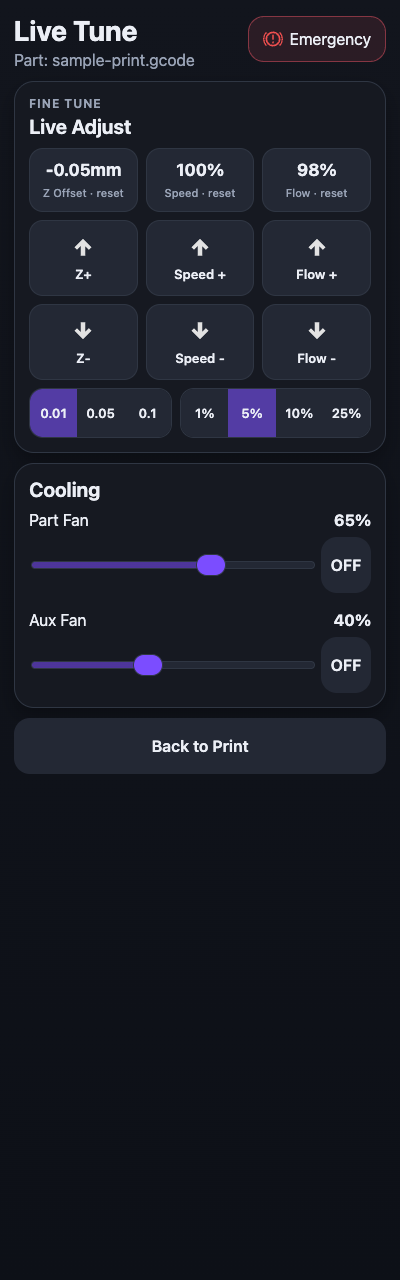
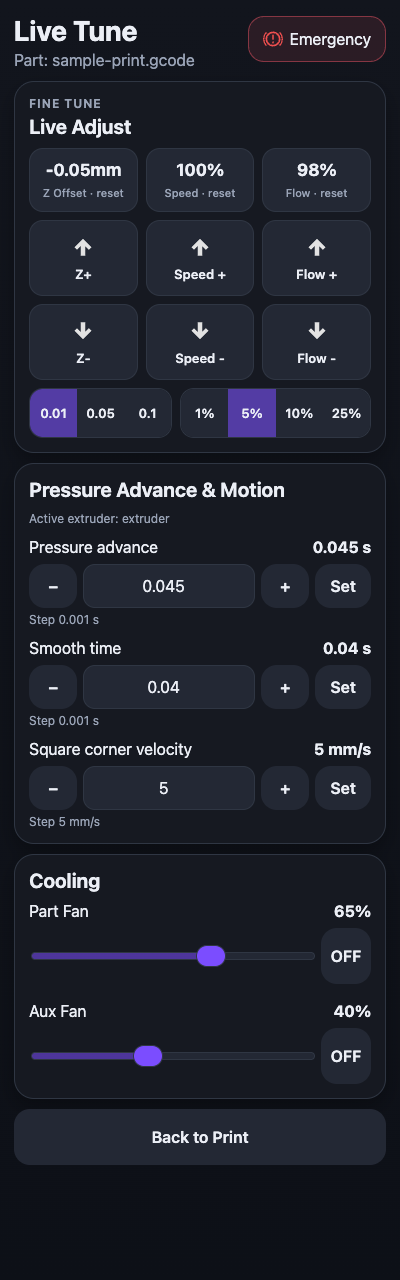
added PA control to live tune

diff --git a/src/components/MotionTuneControls.tsx b/src/components/MotionTuneControls.tsx
@@ -1,0 +1,97 @@
+import { useState } from 'react';
+import { useCommands, usePrinterStore } from '../stores/usePrinterStore';
+
+interface TuneSettingProps {
+  label: string;
+  unit: string;
+  value?: number;
+  increment: number;
+  max?: number;
+  onSet: (value: number) => void;
+}
+
+function TuneSetting({ label, unit, value, increment, max, onSet }: TuneSettingProps) {
+  const [draft, setDraft] = useState<string | null>(null);
+  const parsed = draft === null ? value : Number(draft);
+  const valid = draft !== '' && parsed !== undefined && Number.isFinite(parsed)
+    && parsed >= 0 && (max === undefined || parsed <= max);
+  const adjust = (delta: number) => {
+    if (value === undefined) return;
+    const adjusted = Number((value + delta).toPrecision(12));
+    onSet(Math.min(max ?? Infinity, Math.max(0, adjusted)));
+    setDraft(null);
+  };
+
+  return (
+    <div className="motion-setting">
+      <div className="kv"><span>{label}</span><strong>{value === undefined ? 'Unavailable' : `${value} ${unit}`}</strong></div>
+      <div className="motion-setting-controls">
+        <button type="button" className="btn" aria-label={`Decrease ${label}`} disabled={value === undefined || value <= 0} onClick={() => adjust(-increment)}>−</button>
+        <input
+          className="motion-setting-input"
+          type="number"
+          inputMode="decimal"
+          aria-label={`${label} value`}
+          min={0}
+          max={max}
+          step="any"
+          value={draft ?? value ?? ''}
+          disabled={value === undefined}
+          onChange={(event) => setDraft(event.currentTarget.value)}
+        />
+        <button type="button" className="btn" aria-label={`Increase ${label}`} disabled={value === undefined || (max !== undefined && value >= max)} onClick={() => adjust(increment)}>+</button>
+        <button type="button" className="btn" disabled={value === undefined || !valid} onClick={() => {
+          if (parsed === undefined || !valid) return;
+          onSet(parsed);
+          setDraft(null);
+        }}>Set</button>
+      </div>
+      <div className="motion-setting-hint">
+        {draft !== null && !valid ? (max === undefined ? 'Enter a non-negative number.' : `Enter a value from 0 to ${max}.`) : `Step ${increment} ${unit}`}
+      </div>
+    </div>
+  );
+}
+
+export function MotionTuneControls() {
+  const commands = useCommands();
+  const tuning = usePrinterStore((state) => state.motionTuning);
+  const runAction = usePrinterStore((state) => state.runAction);
+  const extruder = tuning.activeExtruder;
+  const values = extruder ? tuning.extruders[extruder] : undefined;
+
+  return (
+    <section className="card">
+      <div className="card-title">Pressure Advance &amp; Motion</div>
+      <div className="motion-setting-hint">Active extruder: {extruder ?? 'unavailable'}</div>
+      <TuneSetting
+        key={`advance-${extruder}`}
+        label="Pressure advance"
+        unit="s"
+        value={values?.pressureAdvance}
+        increment={0.001}
+        onSet={(value) => {
+          if (extruder) void runAction('Set pressure advance', () => commands.setPressureAdvance(extruder, value));
+        }}
+      />
+      <TuneSetting
+        key={`smooth-${extruder}`}
+        label="Smooth time"
+        unit="s"
+        value={values?.smoothTime}
+        increment={0.001}
+        max={0.2}
+        onSet={(value) => {
+          if (extruder) void runAction('Set smooth time', () => commands.setPressureAdvanceSmoothTime(extruder, value));
+        }}
+      />
+      <TuneSetting
+        label="Square corner velocity"
+        unit="mm/s"
+        value={tuning.squareCornerVelocity}
+        increment={5}
+        onSet={(value) => void runAction('Set square corner velocity', () => commands.setSquareCornerVelocity(value))}
+      />
+    </section>
+  );
+}

diff --git a/src/stores/usePrinterStore.ts b/src/stores/usePrinterStore.ts
@@ -24,7 +24,7 @@ import {
   type BottomBarItemKey,
   type TempPreset,
 } from '../services/userConfig';
-import { computeJobState, deriveTemperatures, normalizeKlipperState, toPercent } from './printerStateUtils';
+import { computeJobState, deriveTemperatures, fillMissingMotionTuning, mergeMotionTuning, normalizeKlipperState, toPercent, type MotionTuning } from './printerStateUtils';
 import { MoonrakerHttpClient } from '../transport/moonrakerHttp';
 import { MoonrakerSocket } from '../transport/moonrakerSocket';
 import { hhmmFromSeconds } from '../utils/format';
@@ -72,6 +72,7 @@ interface PrinterStore {
   speedPercent: number;
   flowPercent: number;
   zOffset: number;
+  motionTuning: MotionTuning;
   excludeObjects: ExcludeObjectsState;
   boot: () => void;
   disconnect: () => void;
@@ -200,6 +201,9 @@ const readHeater = (
 });
 
 const dynamicFieldsForObject = (name: string) => {
+  if (/^extruder\d+$/.test(name)) {
+    return ['pressure_advance', 'smooth_time'];
+  }
   if (name.startsWith('output_pin ')) {
     return ['value'];
   }
@@ -256,6 +260,7 @@ const getDynamicTemperatureObjects = (status: Record<string, any>, objects: stri
       name.startsWith('fan_generic ') ||
       name.startsWith('controller_fan ') ||
       name.startsWith('heater_fan ') ||
+      /^extruder\d+$/.test(name) ||
       name.startsWith('output_pin ')
     );
   });
@@ -391,9 +396,9 @@ export const usePrinterStore = create<PrinterStore>((set: PrinterSetState, get: 
 
     const [objectsRes, filesRes, systemRes, networkRes, objectListRes, updateRes, historyRes, mainsailGeneralRes, serverInfoRes] = await Promise.allSettled([
       scopedHttp.queryObjects({
-        toolhead: ['position'],
+        toolhead: ['position', 'extruder', 'square_corner_velocity'],
         gcode_move: ['speed', 'speed_factor', 'extrude_factor', 'homing_origin'],
-        extruder: ['temperature', 'target'],
+        extruder: ['temperature', 'target', 'pressure_advance', 'smooth_time'],
         heater_bed: ['temperature', 'target'],
         heaters: ['available_heaters', 'available_sensors', 'available_monitors'],
         print_stats: ['state', 'filename', 'print_duration', 'total_duration', 'filament_used', 'info', 'message'],
@@ -504,6 +509,9 @@ export const usePrinterStore = create<PrinterStore>((set: PrinterSetState, get: 
         speedPercent: Math.round(Number(status.gcode_move?.speed_factor ?? state.speedPercent / 100) * 100),
         flowPercent: Math.round(Number(status.gcode_move?.extrude_factor ?? state.flowPercent / 100) * 100),
         zOffset: Number(status.gcode_move?.homing_origin?.[2] ?? state.zOffset),
+        motionTuning: live
+          ? fillMissingMotionTuning(state.motionTuning, mergeMotionTuning({ extruders: {} }, { ...dynamicStatus, ...status }))
+          : mergeMotionTuning(state.motionTuning, { ...dynamicStatus, ...status }),
         excludeObjects,
         job: {
           ...state.job,
@@ -685,6 +693,7 @@ export const usePrinterStore = create<PrinterStore>((set: PrinterSetState, get: 
     speedPercent: 100,
     flowPercent: 100,
     zOffset: 0,
+    motionTuning: { extruders: {} },
     boot: () => {
       const start = async () => {
         slowCache.clear();
@@ -760,6 +769,7 @@ export const usePrinterStore = create<PrinterStore>((set: PrinterSetState, get: 
 
           set((state) => {
             const next = { ...state };
+            next.motionTuning = mergeMotionTuning(next.motionTuning, status);
 
             if (status.extruder) {
               next.temperatures = {

diff --git a/src/stores/printerStateUtils.ts b/src/stores/printerStateUtils.ts
@@ -1,5 +1,51 @@
 import type { JobState, KlipperState, PrinterTemperatures } from '../domain/models';
 
+export interface MotionTuning {
+  activeExtruder?: string;
+  extruders: Record<string, { pressureAdvance?: number; smoothTime?: number }>;
+  squareCornerVelocity?: number;
+}
+
+export const mergeMotionTuning = (
+  previous: MotionTuning,
+  status: Record<string, unknown>,
+): MotionTuning => {
+  const toolhead = status.toolhead;
+  const toolheadValues = typeof toolhead === 'object' && toolhead !== null
+    ? toolhead as Record<string, unknown>
+    : {};
+  const next = { ...previous, extruders: { ...previous.extruders } };
+  if (typeof toolheadValues.extruder === 'string') next.activeExtruder = toolheadValues.extruder;
+  if (typeof toolheadValues.square_corner_velocity === 'number' && Number.isFinite(toolheadValues.square_corner_velocity)) {
+    next.squareCornerVelocity = toolheadValues.square_corner_velocity;
+  }
+  for (const [name, raw] of Object.entries(status)) {
+    if (!/^extruder\d*$/.test(name) || typeof raw !== 'object' || raw === null) continue;
+    const values = raw as Record<string, unknown>;
+    const extruder = { ...next.extruders[name] };
+    if (typeof values.pressure_advance === 'number' && Number.isFinite(values.pressure_advance)) {
+      extruder.pressureAdvance = values.pressure_advance;
+    }
+    if (typeof values.smooth_time === 'number' && Number.isFinite(values.smooth_time)) {
+      extruder.smoothTime = values.smooth_time;
+    }
+    next.extruders[name] = extruder;
+  }
+  return next;
+};
+
+export const fillMissingMotionTuning = (live: MotionTuning, snapshot: MotionTuning): MotionTuning => {
+  const extruders = { ...snapshot.extruders };
+  for (const [name, values] of Object.entries(live.extruders)) {
+    extruders[name] = { ...extruders[name], ...values };
+  }
+  return {
+    activeExtruder: live.activeExtruder ?? snapshot.activeExtruder,
+    squareCornerVelocity: live.squareCornerVelocity ?? snapshot.squareCornerVelocity,
+    extruders,
+  };
+};
+
 const KLIPPER_STATES: KlipperState[] = ['ready', 'startup', 'shutdown', 'error', 'disconnected'];
 
 export const toPercent = (raw: unknown, fallback: number) => {

diff --git a/tests/printerStateUtils.test.ts b/tests/printerStateUtils.test.ts
@@ -3,6 +3,8 @@ import { defaultTemperatures } from '../src/domain/defaults';
 import {
   computeJobState,
   deriveTemperatures,
+  fillMissingMotionTuning,
+  mergeMotionTuning,
   normalizeKlipperState,
   toPercent,
 } from '../src/stores/printerStateUtils';
@@ -77,5 +79,39 @@ describe('printerStateUtils', () => {
     expect(derived.sensors.ambient_probe.current).toBe(23);
     expect(derived.sensors.ambient_probe.target).toBe(40);
     expect(derived.ambient).toBe(23);
+  });
+
+  it('merges motion values from partial updates and tracks the active extruder', () => {
+    const initial = mergeMotionTuning({ extruders: {} }, {
+      toolhead: { extruder: 'extruder', square_corner_velocity: 5 },
+      extruder: { pressure_advance: 0.04, smooth_time: 0.04 },
+      extruder1: { pressure_advance: 0.08, smooth_time: 0.03 },
+    });
+    const next = mergeMotionTuning(initial, {
+      toolhead: { extruder: 'extruder1' },
+      extruder1: { pressure_advance: 0.09 },
+    });
+    expect(next).toEqual({
+      activeExtruder: 'extruder1',
+      squareCornerVelocity: 5,
+      extruders: {
+        extruder: { pressureAdvance: 0.04, smoothTime: 0.04 },
+        extruder1: { pressureAdvance: 0.09, smoothTime: 0.03 },
+      },
+    });
+    expect(mergeMotionTuning(next, { toolhead: { square_corner_velocity: null }, extruder1: { smooth_time: 'bad' } })).toEqual(next);
+  });
+
+  it('fills missing live motion values from a snapshot without overwriting newer values', () => {
+    const snapshot = mergeMotionTuning({ extruders: {} }, {
+      toolhead: { extruder: 'extruder', square_corner_velocity: 5 },
+      extruder: { pressure_advance: 0.04, smooth_time: 0.04 },
+    });
+    const live = mergeMotionTuning({ extruders: {} }, { extruder: { pressure_advance: 0.06 } });
+    expect(fillMissingMotionTuning(live, snapshot)).toEqual({
+      activeExtruder: 'extruder',
+      squareCornerVelocity: 5,
+      extruders: { extruder: { pressureAdvance: 0.06, smoothTime: 0.04 } },
+    });
   });
 });

diff --git a/tests/motionCommands.test.ts b/tests/motionCommands.test.ts
@@ -1,0 +1,35 @@
+import { describe, expect, it, vi } from 'vitest';
+import { CommandService } from '../src/services/commands';
+import { MoonrakerHttpClient } from '../src/transport/moonrakerHttp';
+
+describe('live motion tuning commands', () => {
+  it('sends each setting to the correct Klipper gcode parameter', async () => {
+    const http = new MoonrakerHttpClient('http://printer');
+    const post = vi.spyOn(http, 'post').mockResolvedValue({});
+    const commands = new CommandService(http, () => {});
+
+    await commands.setPressureAdvance('extruder1', 0.055);
+    await commands.setPressureAdvanceSmoothTime('extruder1', 0.04);
+    await commands.setSquareCornerVelocity(5.5);
+
+    expect(post.mock.calls).toEqual([
+      ['/printer/gcode/script', { script: 'SET_PRESSURE_ADVANCE EXTRUDER=extruder1 ADVANCE=0.055' }],
+      ['/printer/gcode/script', { script: 'SET_PRESSURE_ADVANCE EXTRUDER=extruder1 SMOOTH_TIME=0.04' }],
+      ['/printer/gcode/script', { script: 'SET_VELOCITY_LIMIT SQUARE_CORNER_VELOCITY=5.5' }],
+    ]);
+  });
+
+  it('rejects invalid values and unsafe extruder names', async () => {
+    const http = new MoonrakerHttpClient('http://printer');
+    const post = vi.spyOn(http, 'post').mockResolvedValue({});
+    const commands = new CommandService(http, () => {});
+
+    await expect(commands.setPressureAdvance('extruder\nG28', 0.1)).rejects.toThrow();
+    await expect(commands.setPressureAdvance('extruder', -1)).rejects.toThrow();
+    await expect(commands.setPressureAdvanceSmoothTime('extruder', 0.201)).rejects.toThrow();
+    await expect(commands.setPressureAdvanceSmoothTime('extruder', NaN)).rejects.toThrow();
+    await expect(commands.setSquareCornerVelocity(-1)).rejects.toThrow();
+    await expect(commands.setSquareCornerVelocity(Infinity)).rejects.toThrow();
+    expect(post).not.toHaveBeenCalled();
+  });
+});

diff --git a/src/services/commands.ts b/src/services/commands.ts
@@ -141,6 +141,27 @@ export class CommandService {
     return this.gcode(`M221 S${Math.round(bounded)}`);
   }
 
+  async setPressureAdvance(extruder: string, value: number) {
+    if (!/^extruder\d*$/.test(extruder) || !Number.isFinite(value) || value < 0) {
+      throw new Error('Invalid extruder or pressure advance value');
+    }
+    return this.gcode(`SET_PRESSURE_ADVANCE EXTRUDER=${extruder} ADVANCE=${value}`);
+  }
+
+  async setPressureAdvanceSmoothTime(extruder: string, value: number) {
+    if (!/^extruder\d*$/.test(extruder) || !Number.isFinite(value) || value < 0 || value > 0.2) {
+      throw new Error('Smooth time must be between 0 and 0.2 seconds');
+    }
+    return this.gcode(`SET_PRESSURE_ADVANCE EXTRUDER=${extruder} SMOOTH_TIME=${value}`);
+  }
+
+  async setSquareCornerVelocity(value: number) {
+    if (!Number.isFinite(value) || value < 0) {
+      throw new Error('Square corner velocity must be non-negative');
+    }
+    return this.gcode(`SET_VELOCITY_LIMIT SQUARE_CORNER_VELOCITY=${value}`);
+  }
+
   async adjustZOffset(delta: number) {
     return this.gcode(`SET_GCODE_OFFSET Z_ADJUST=${delta.toFixed(3)} MOVE=1`);
   }

diff --git a/src/screens/TuneScreen.tsx b/src/screens/TuneScreen.tsx
@@ -4,6 +4,7 @@ import arrowDownIcon from '../../assets/arrow-down.svg';
 import arrowUpIcon from '../../assets/arrow-up.svg';
 import { CoolingControls } from '../components/CoolingControls';
 import { Layout } from '../components/Layout';
+import { MotionTuneControls } from '../components/MotionTuneControls';
 import { useCommands, usePrinterStore } from '../stores/usePrinterStore';
 
 const Z_STEPS = [0.01, 0.05, 0.1] as const;
@@ -75,6 +76,7 @@ export function TuneScreen() {
           </div>
         </section>
         <div className="live-tune-side">
+          <MotionTuneControls />
           <CoolingControls />
           <Link className="btn button-link" to="/print">Back to Print</Link>
         </div>

diff --git a/src/styles/theme.css b/src/styles/theme.css
@@ -1326,6 +1326,37 @@ body {
   align-content: start;
 }
 
+.motion-setting {
+  margin-top: 12px;
+}
+
+.motion-setting-controls {
+  display: grid;
+  grid-template-columns: 48px minmax(0, 1fr) 48px 56px;
+  gap: 6px;
+}
+
+.motion-setting-controls .btn {
+  min-height: 44px;
+  padding: 8px;
+}
+
+.motion-setting-input {
+  min-width: 0;
+  width: 100%;
+  border: 1px solid var(--border);
+  border-radius: 12px;
+  background: var(--surface-strong);
+  color: var(--text);
+  text-align: center;
+}
+
+.motion-setting-hint {
+  color: var(--text-muted);
+  font-size: 12px;
+  margin-top: 4px;
+}
+
 .tune-btn:active {
   background: color-mix(in srgb, var(--accent) 38%, var(--surface-strong));
 }

diff --git a/README.md b/README.md
@@ -19,7 +19,7 @@ https://buymeacoffee.com/tiger3dprinting
 |---|---|---|---|
 | ![Control](docs/screenshots/control.png) | ![Settings](docs/screenshots/settings.png) | ![Connectivity](docs/screenshots/connectivity.png) | ![Updates](docs/screenshots/updates.png) |
 
-Print and Live Tune screens (shown while Klipper is printing or paused; these captures use sample data). Open Live Tune from the print actions to adjust Z offset, speed, flow, the part fan, and discovered output pins; use Back to Print to return.
+Print and Live Tune screens (shown while Klipper is printing or paused; these captures use sample data). Open Live Tune from the print actions to adjust Z offset, speed, flow, pressure advance and smooth time for the active extruder, square corner velocity, the part fan, and discovered output pins; use Back to Print to return. These adjustments are live and do not save changes to the printer configuration. Pressure advance controls are unavailable when the active extruder does not report those values.
 
 <img src="docs/screenshots/print.png" alt="Print" width="200" /> <img src="docs/screenshots/live-tune.png" alt="Live Tune" width="200" />
 
